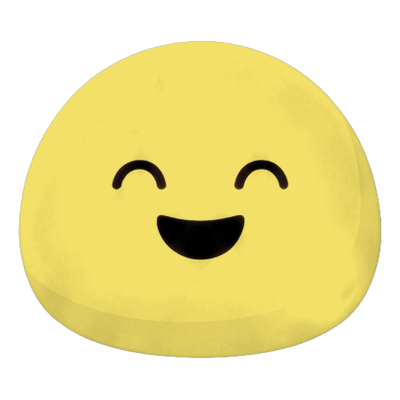
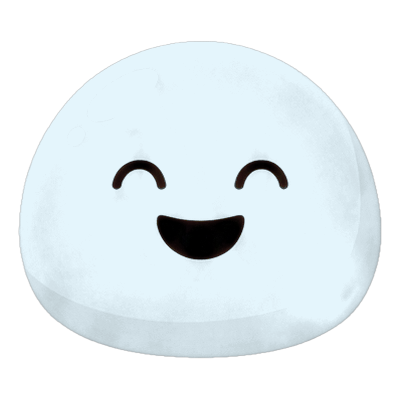
style(mallang): '좋았어요' 말랑이 색상을 연한 아이스 블루로 맞춤

diff --git a/src/lib/mallangSkins.js b/src/lib/mallangSkins.js
@@ -41,7 +41,7 @@ export const MALLANG_EYE_RECT = {
     2: { x: 0.25, y: 0.40, w: 0.50, h: 0.11, cw: 400, ch: 400, color: "#D0C8A3" },
     3: { x: 0.25, y: 0.40, w: 0.50, h: 0.11, cw: 400, ch: 400, color: "#FFFFFF" },
     4: { x: 0.25, y: 0.40, w: 0.50, h: 0.11, cw: 400, ch: 400, color: "#D8F0D8" },
-    5: { x: 0.25, y: 0.40, w: 0.50, h: 0.11, cw: 400, ch: 400, color: "#F3E068" },
+    5: { x: 0.25, y: 0.40, w: 0.50, h: 0.11, cw: 400, ch: 400, color: "#E4F5FC" },
     _color: "#FFFFFF",
   },
 };
